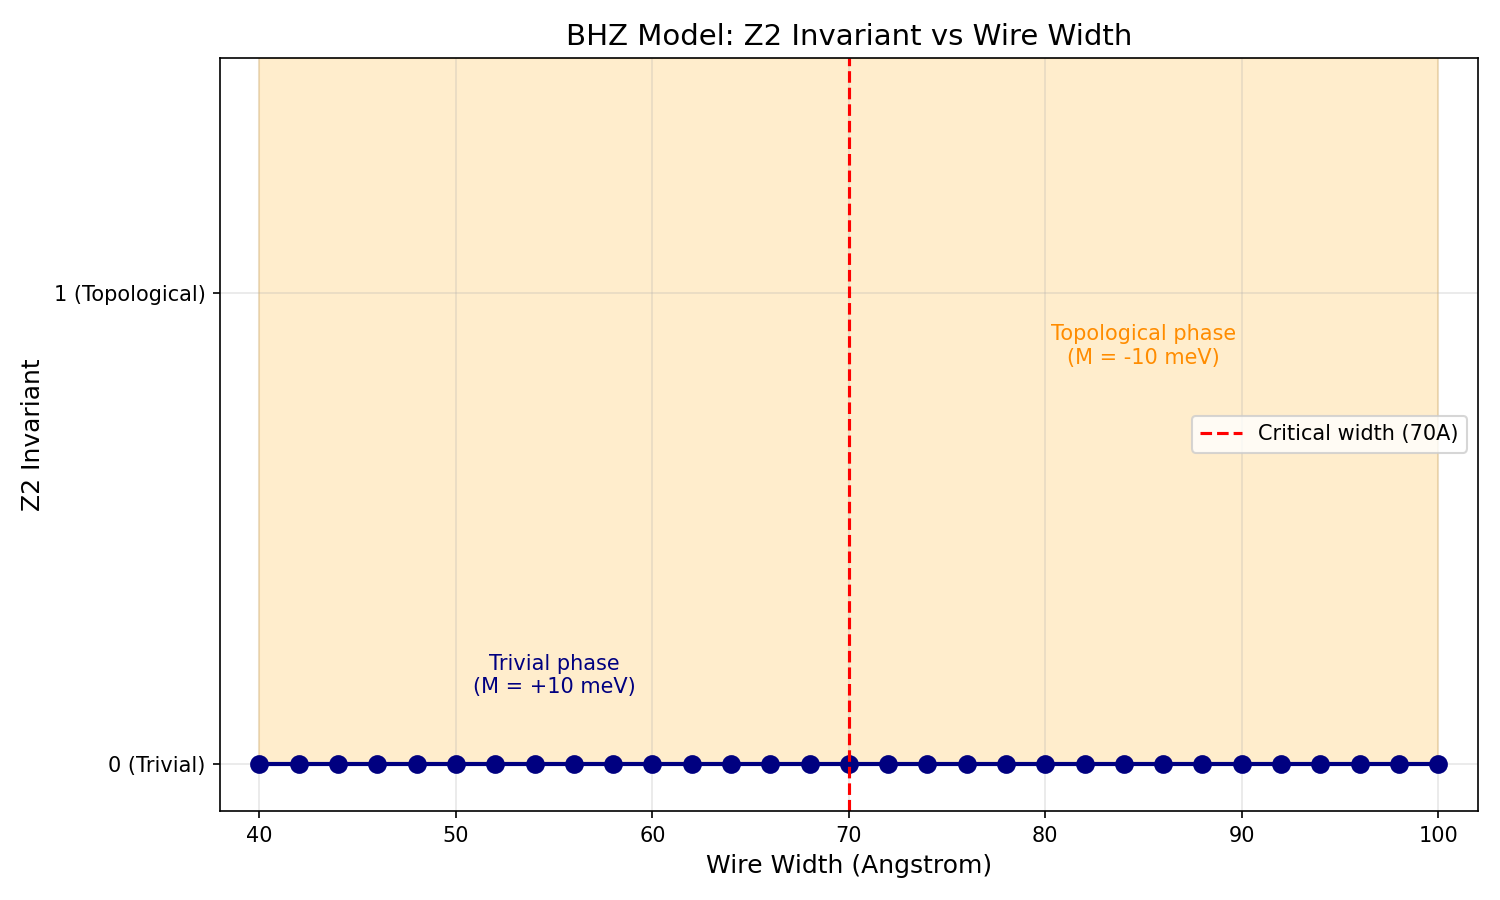
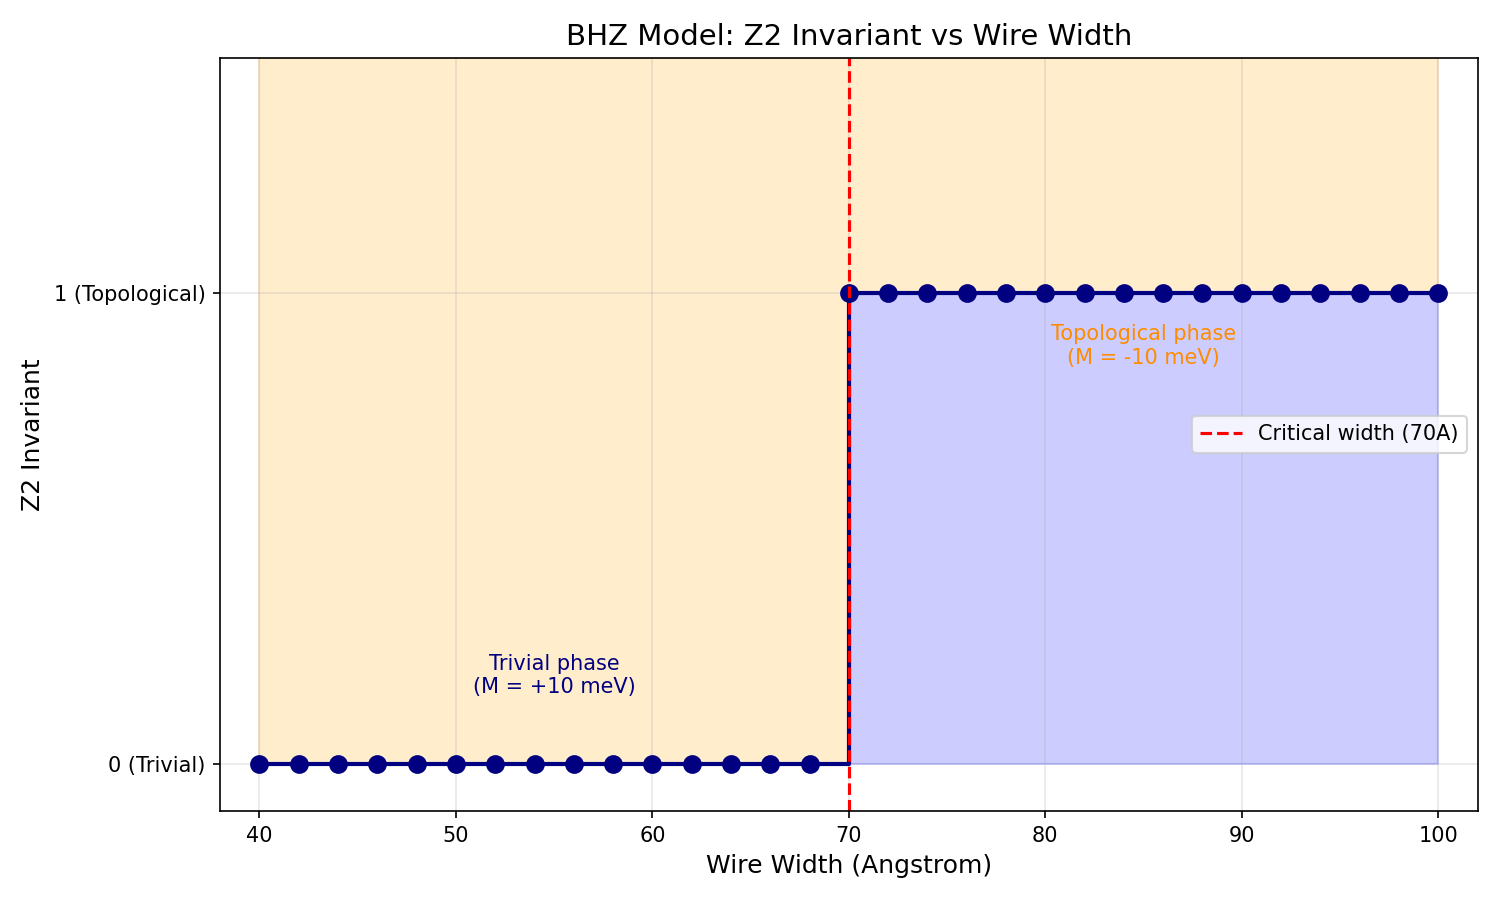
docs: regenerate BHZ Z2 width sweep with fixed hopping, fix Rashba script
- Regenerate verify_bhz_z2_sweep.txt and .png: now shows correct
  Z2 transition at d=70A (trivial below, topological above)
  instead of all-Z2=0 from pre-fix BHZ Hamiltonian
- Fix sweep_rashba_bdg.py to use B_vec: instead of b_field: and
  match working regression config format (Rashba regeneration still
  needs FEAST window tuning — deferred)

Changed region(s): [[0.552, 0.3111, 0.9813, 0.8711]]

diff --git a/scripts/sweep_rashba_bdg.py b/scripts/sweep_rashba_bdg.py
@@ -25,10 +25,7 @@ def run_bdg(B, workdir):
     output = workdir / "output"
     output.mkdir(exist_ok=True)
 
-    # Note: 'bdg: T' format does NOT work - use 'bdg T' (space, no colon)
-    # The parser reads label/value pairs sequentially, so 'bdg T' reads
-    # label='bdg' then value=T (works). 'bdg: T' fails because ':' is consumed
-    # as the value for label 'bdg', leaving nothing for enabled.
+    # Config format matches the working regression config topology_rashba_phase.cfg
     config_text = f"""\
 waveVector: kz
 waveVectorMax: 0.1
@@ -48,7 +45,7 @@ numRegions: 1
 region: GaAs  0.0  100.0
 numcb: 4
 numvb: 4
-ExternalField: {int(B)} EF
+ExternalField: 0  EF
 EFParams: 0.0005
 whichBand: 0
 bandIdx: 1
@@ -60,11 +57,14 @@ compute_z2: F
 extract_edge_states: F
 edge_E_window: 0.01
 compute_ldos: F
+compute_hall: F
+qwz_u: 0.0
 bdg: T
 mu: 0.0005
 delta_0: 0.0003
 g_factor: 2.0
-b_field: {int(B)} 0 0
+B_vec: 0.0 0.0 {B:.1f}
+gauge: landau
 """
 
     cfg.write_text(config_text)